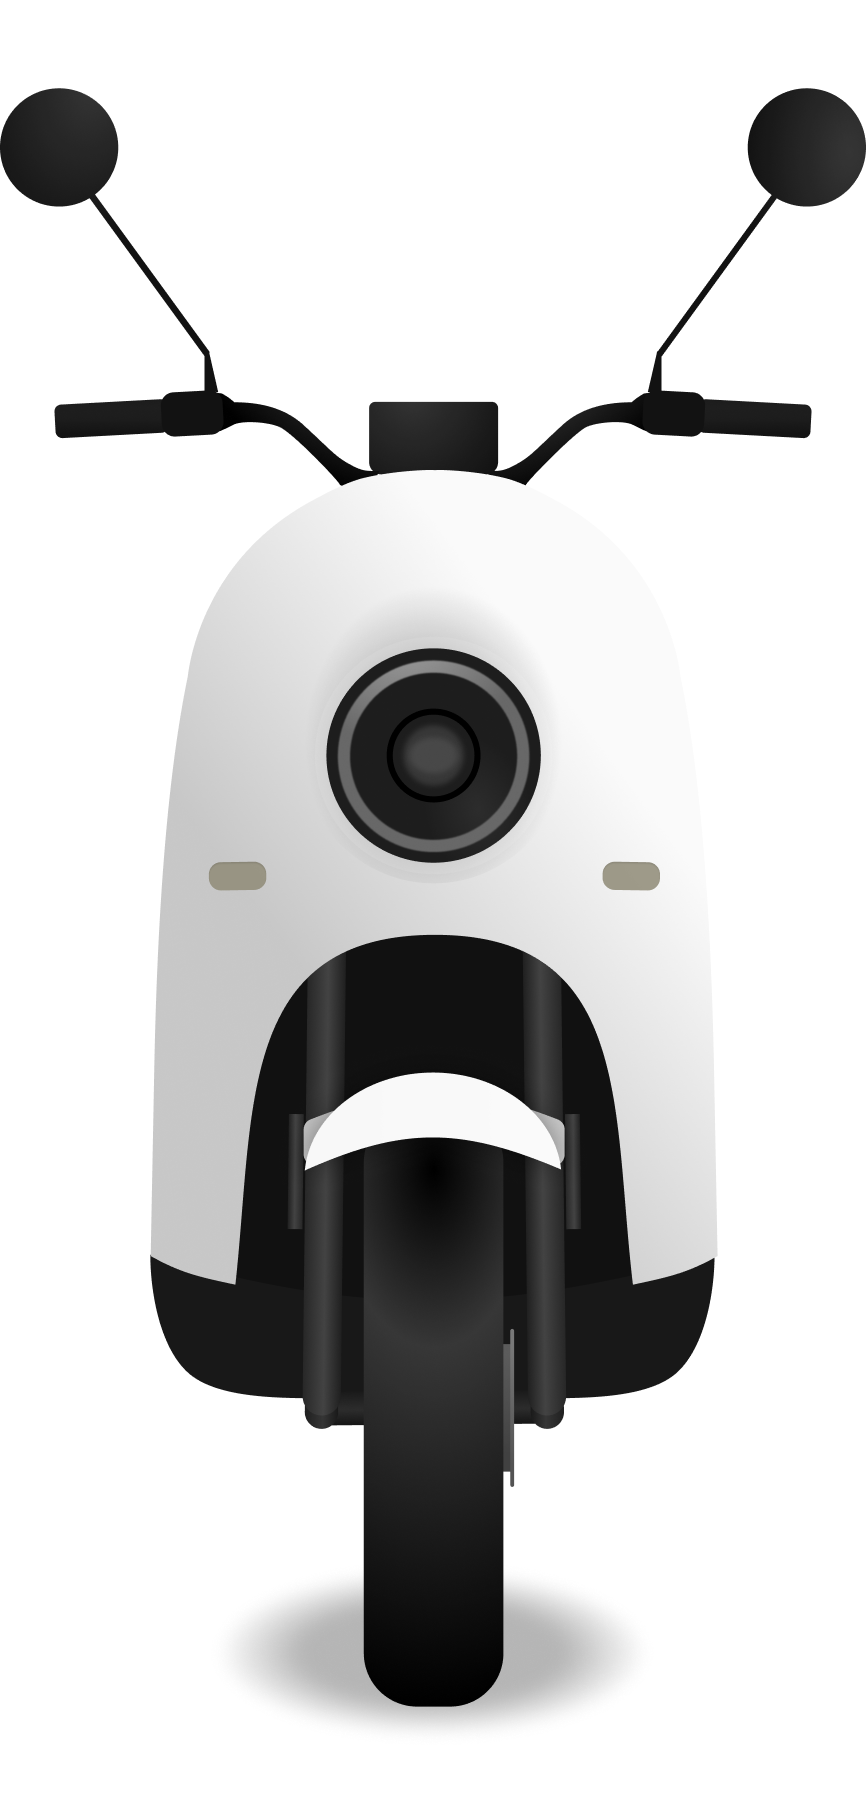
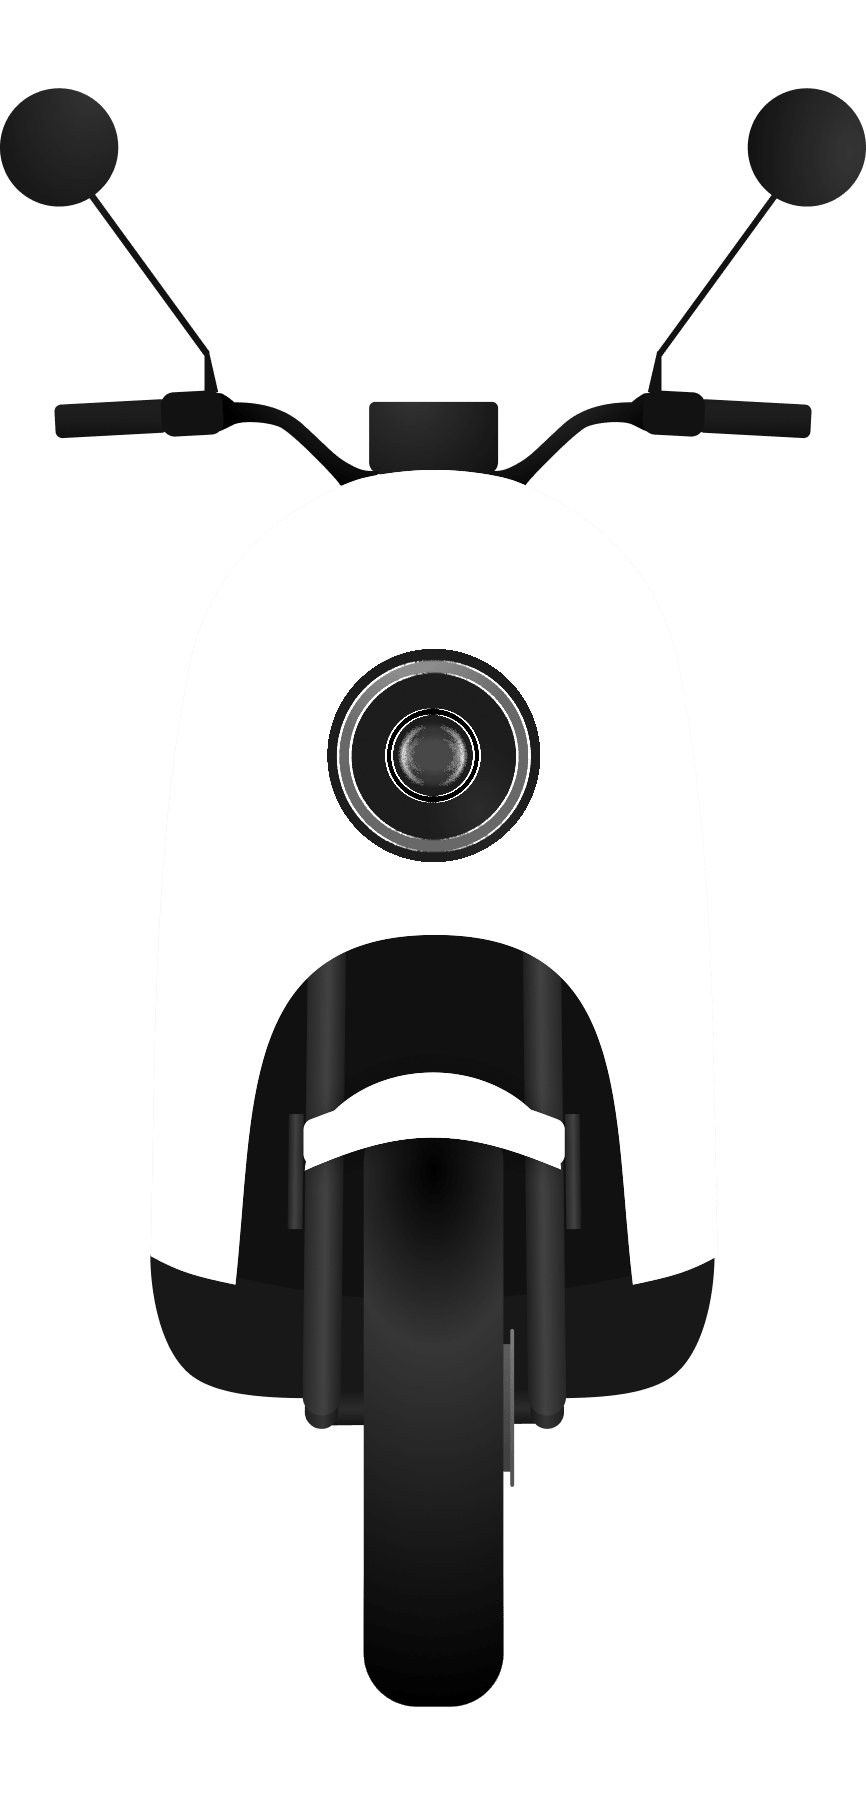
refine(app): preserve scooter artwork detail (librescoot-jluu)

diff --git a/lib/ui/widgets/rendered_scooter_artwork.dart b/lib/ui/widgets/rendered_scooter_artwork.dart
@@ -8,6 +8,7 @@ class RenderedScooterArtwork extends StatelessWidget {
     required this.view,
     required this.color,
     required this.matte,
+    this.showShadow = true,
     this.height,
     this.width,
     this.fit,
@@ -17,6 +18,7 @@ class RenderedScooterArtwork extends StatelessWidget {
   final ScooterArtworkView view;
   final String color;
   final bool matte;
+  final bool showShadow;
   final double? height;
   final double? width;
   final BoxFit? fit;
@@ -31,38 +33,19 @@ class RenderedScooterArtwork extends StatelessWidget {
     final artwork = Stack(
       alignment: Alignment.center,
       children: [
+        if (showShadow)
+          Positioned.fill(
+            key: const ValueKey('scooter-ground-shadow'),
+            child: _image('images/scooter/${_prefix}_shadow.png'),
+          ),
         _image('images/scooter/${_prefix}_base.png'),
         Positioned.fill(
+          key: ValueKey(matte ? 'custom-paint-matte-layer' : 'custom-paint-gloss-layer'),
           child: ColorFiltered(
             colorFilter: ColorFilter.mode(_paintColor, BlendMode.modulate),
-            child: _image('images/scooter/${_prefix}_panels.png'),
+            child: _image('images/scooter/${_prefix}_${matte ? 'matte' : 'gloss'}.png'),
           ),
         ),
-        if (matte)
-          Positioned.fill(
-            key: const ValueKey('custom-paint-matte-layer'),
-            child: _image('images/scooter/${_prefix}_matte.png'),
-          )
-        else
-          Positioned.fill(
-            key: const ValueKey('custom-paint-gloss-layer'),
-            child: ShaderMask(
-              blendMode: BlendMode.srcIn,
-              shaderCallback: (bounds) => RadialGradient(
-                center:
-                    view == ScooterArtworkView.front ? const Alignment(-0.72, -0.62) : const Alignment(-0.78, -0.48),
-                radius: view == ScooterArtworkView.front ? 0.82 : 0.95,
-                colors: const [
-                  Color(0x52FFFFFF),
-                  Color(0x26FFFFFF),
-                  Color(0x08FFFFFF),
-                  Colors.transparent,
-                ],
-                stops: const [0, 0.28, 0.58, 1],
-              ).createShader(bounds),
-              child: _image('images/scooter/${_prefix}_panels.png'),
-            ),
-          ),
       ],
     );
     final sizedArtwork = height != null && width == null

diff --git a/test/ui/scooter_side_visual_test.dart b/test/ui/scooter_side_visual_test.dart
@@ -90,6 +90,35 @@ void main() {
     expect(find.byKey(const ValueKey('custom-paint-matte-layer')), findsNothing);
   });
 
+  testWidgets('can omit the independently rendered ground shadow', (tester) async {
+    await tester.pumpWidget(
+      const MaterialApp(
+        home: RenderedScooterArtwork(
+          view: ScooterArtworkView.side,
+          color: '#123456',
+          matte: true,
+          showShadow: false,
+          height: 160,
+        ),
+      ),
+    );
+
+    expect(find.byKey(const ValueKey('scooter-ground-shadow')), findsNothing);
+
+    await tester.pumpWidget(
+      const MaterialApp(
+        home: RenderedScooterArtwork(
+          view: ScooterArtworkView.side,
+          color: '#123456',
+          matte: true,
+          height: 160,
+        ),
+      ),
+    );
+
+    expect(find.byKey(const ValueKey('scooter-ground-shadow')), findsOneWidget);
+  });
+
   testWidgets('does not add the dark backdrop in light mode', (tester) async {
     await tester.pumpWidget(buildVisual(Brightness.light));
 

diff --git a/tool/build_scooter_artwork.py b/tool/build_scooter_artwork.py
@@ -1,0 +1,146 @@
+#!/usr/bin/env python3
+"""Build locally tintable scooter artwork layers from design exports."""
+
+from __future__ import annotations
+
+import argparse
+import copy
+import subprocess
+import tempfile
+import xml.etree.ElementTree as ET
+from pathlib import Path
+
+import numpy as np
+from PIL import Image
+
+SIZES = {"front": (866, 1800), "side": (2110, 1738)}
+SOURCE_COLORS = {"matte": "#A4A4A4", "gloss": "#F9F9F9"}
+
+
+def rgba(path: Path) -> np.ndarray:
+    return np.asarray(Image.open(path).convert("RGBA"), dtype=np.float32)
+
+
+def paint_alpha(source: Path, view: str) -> np.ndarray:
+    tree = ET.parse(source / f"{view}_6.svg")
+    root = tree.getroot()
+    definitions = next(child for child in root if child.tag.rsplit("}", 1)[-1] == "defs")
+    painted = [
+        copy.deepcopy(element)
+        for element in root.iter()
+        if element.get("fill", "").upper() == "#11255A"
+    ]
+    for child in list(root):
+        root.remove(child)
+    for element in painted:
+        element.set("fill", "white")
+        element.attrib.pop("filter", None)
+        element.attrib.pop("style", None)
+        root.append(element)
+    root.append(definitions)
+
+    width, height = SIZES[view]
+    with tempfile.TemporaryDirectory() as temporary:
+        mask_svg = Path(temporary) / "mask.svg"
+        mask_png = Path(temporary) / "mask.png"
+        tree.write(mask_svg, encoding="utf-8", xml_declaration=True)
+        subprocess.run(
+            ["rsvg-convert", "-w", str(width), "-h", str(height), "-o", str(mask_png), str(mask_svg)],
+            check=True,
+        )
+        geometry_alpha = rgba(mask_png)[:, :, 3] / 255
+
+    matte_difference = np.max(
+        np.abs(rgba(source / f"{view}_2.png")[:, :, :3] - rgba(source / f"{view}_4.png")[:, :, :3]),
+        axis=2,
+    )
+    gloss_difference = np.max(
+        np.abs(rgba(source / f"{view}_1.png")[:, :, :3] - rgba(source / f"{view}_6.png")[:, :, :3]),
+        axis=2,
+    )
+    visible_paint = np.clip((np.maximum(matte_difference, gloss_difference) - 1) / 6, 0, 1)
+    return geometry_alpha * visible_paint
+
+
+def shadow_layer(source: Path, view: str, destination: Path) -> np.ndarray:
+    tree = ET.parse(source / f"{view}_6.svg")
+    root = tree.getroot()
+    children = list(root)
+    for child in children:
+        if child is not children[0] and child.tag.rsplit("}", 1)[-1] != "defs":
+            root.remove(child)
+
+    width, height = SIZES[view]
+    with tempfile.TemporaryDirectory() as temporary:
+        shadow_svg = Path(temporary) / "shadow.svg"
+        tree.write(shadow_svg, encoding="utf-8", xml_declaration=True)
+        rendered_shadow = Path(temporary) / "rendered-shadow.png"
+        subprocess.run(
+            [
+                "rsvg-convert",
+                "-w",
+                str(width),
+                "-h",
+                str(height),
+                "-o",
+                str(rendered_shadow),
+                str(shadow_svg),
+            ],
+            check=True,
+        )
+        rendered = rgba(rendered_shadow)
+
+    reference = rgba(source / f"{view}_6.png")
+    visible = (reference[:, :, 3] <= rendered[:, :, 3] + 5) & (rendered[:, :, 3] > 0)
+    shadow = np.zeros_like(reference)
+    shadow[visible] = reference[visible]
+    Image.fromarray(np.rint(shadow).astype(np.uint8), "RGBA").save(destination, optimize=True)
+    return shadow
+
+
+def tone_layer(source: Path, view: str, finish: str, alpha: np.ndarray) -> np.ndarray:
+    source_id = 3 if finish == "matte" else 1
+    image = rgba(source / f"{view}_{source_id}.png")
+    color = SOURCE_COLORS[finish]
+    rgb = np.array([int(color[index : index + 2], 16) for index in (1, 3, 5)], dtype=np.float32)
+    reference_luminance = np.dot(rgb, [0.2126, 0.7152, 0.0722])
+    luminance = np.dot(image[:, :, :3], [0.2126, 0.7152, 0.0722])
+    tone = np.clip(luminance / reference_luminance, 0, 1)
+
+    output = np.empty_like(image, dtype=np.uint8)
+    output[:, :, :3] = np.rint(tone[:, :, None] * 255).astype(np.uint8)
+    output[:, :, 3] = np.rint(alpha * 255).astype(np.uint8)
+    return output
+
+
+def build_view(source: Path, output: Path, view: str) -> None:
+    alpha = paint_alpha(source, view)
+    shadow_path = output / f"custom_{view}_shadow.png"
+    shadow = shadow_layer(source, view, shadow_path)
+
+    base = rgba(source / f"{view}_1.png")
+    base[:, :, 3] *= 1 - alpha
+    visible_shadow = (base[:, :, 3] <= shadow[:, :, 3] + 5) & (shadow[:, :, 3] > 0)
+    base[visible_shadow] = 0
+    Image.fromarray(np.rint(base).astype(np.uint8), "RGBA").save(
+        output / f"custom_{view}_base.png", optimize=True
+    )
+
+    for finish in ("matte", "gloss"):
+        Image.fromarray(tone_layer(source, view, finish, alpha), "RGBA").save(
+            output / f"custom_{view}_{finish}.png", optimize=True
+        )
+
+
+def main() -> None:
+    parser = argparse.ArgumentParser()
+    parser.add_argument("source", type=Path, help="Directory containing front_N and side_N SVG/PNG exports")
+    parser.add_argument("output", type=Path, help="Runtime artwork directory")
+    args = parser.parse_args()
+    args.output.mkdir(parents=True, exist_ok=True)
+    for view in SIZES:
+        build_view(args.source, args.output, view)
+
+
+if __name__ == "__main__":
+    main()
